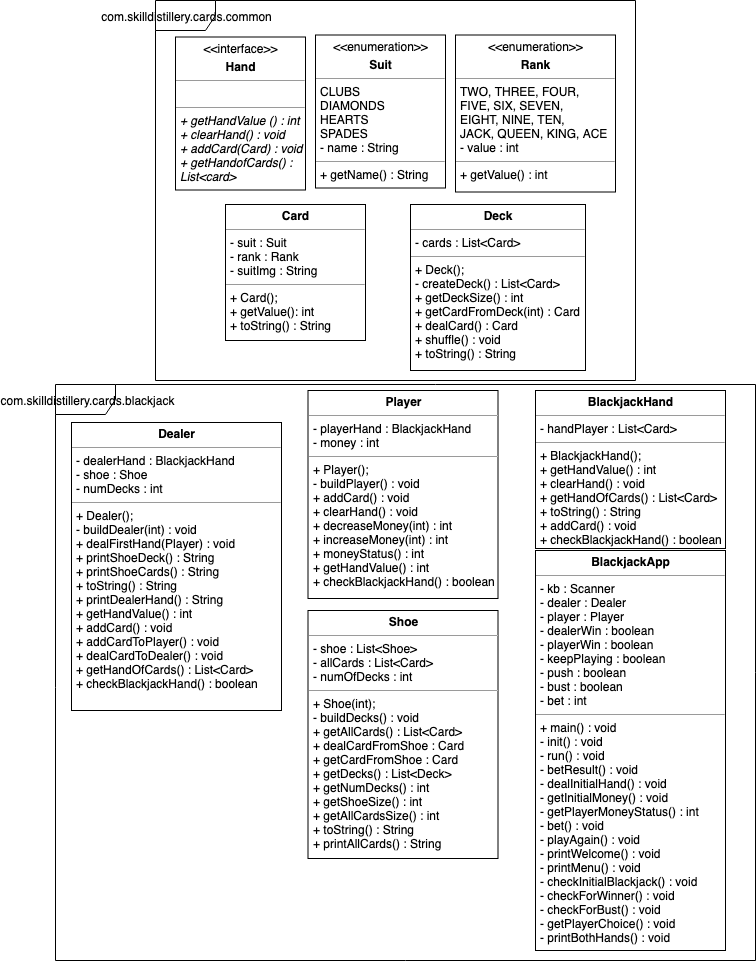
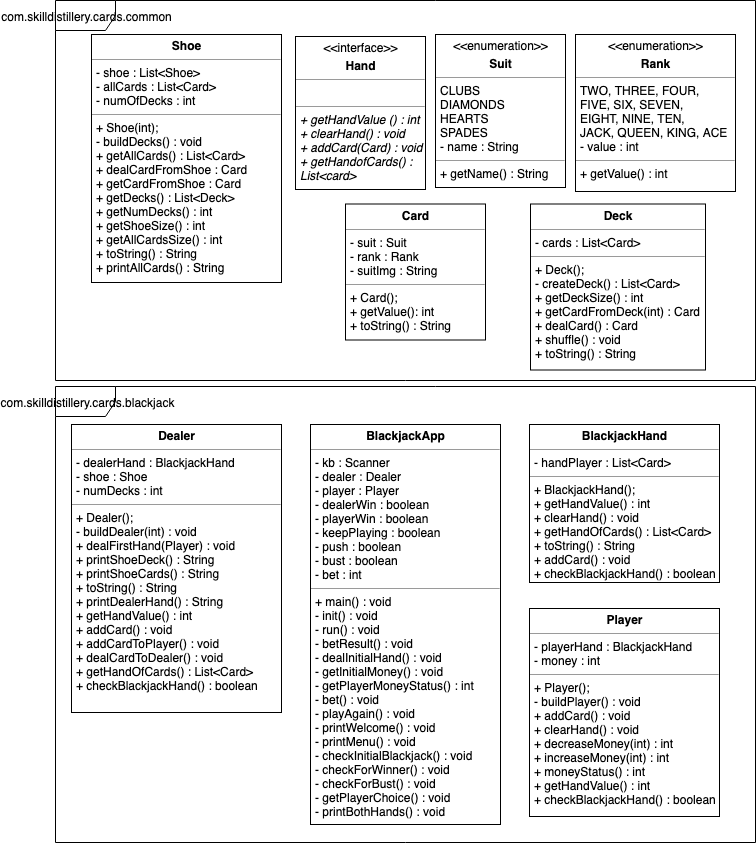
Relocated Shoe to the common directory as other card games use a shoe. Updated UML and README to reflect.

Changed region(s): [[0.0, 0.0, 0.9735, 1.0], [0.9735, 0.3701, 1.0, 0.4009]]

diff --git a/src/com/skilldistillery/cards/common/Shoe.java b/src/com/skilldistillery/cards/common/Shoe.java
@@ -1,11 +1,8 @@
-package com.skilldistillery.cards.blackjack;
+package com.skilldistillery.cards.common;
 
 import java.util.ArrayList;
 import java.util.Collections;
 import java.util.List;
-
-import com.skilldistillery.cards.common.Card;
-import com.skilldistillery.cards.common.Deck;
 
 public class Shoe {
 

diff --git a/src/com/skilldistillery/cards/blackjack/Dealer.java b/src/com/skilldistillery/cards/blackjack/Dealer.java
@@ -2,6 +2,7 @@ package com.skilldistillery.cards.blackjack;
 
 import java.util.List;
 import com.skilldistillery.cards.common.Card;
+import com.skilldistillery.cards.common.Shoe;
 
 public class Dealer {
 

diff --git a/README.md b/README.md
@@ -26,7 +26,7 @@
 
 ### Lessons Learned
 
-* In developing this application, object oriented design was of great focus. Thinking through natural language parts of the game drove logical design decisions. Reusability was also a focus to ensure other card games could be developed based on commonalities such as card which has a suit and has a rank, as well as deck which has a card. Parts unique to the game of Blackjack use the common structures and customize for the specific game. Excellent project to reinforce OO principles.
+* In developing this application, object oriented design was of great focus. Thinking through natural language parts of the game drove logical design decisions. Reusability was also a focus to ensure other card games could be developed based on commonalities such as card which has a suit and has a rank, as well as deck which has a card, and Shoe which is used in other card games. Parts unique to the game of Blackjack use the common structures and customize for the specific game. Excellent project to reinforce OO principles.
 
 ### UML Diagram
 
